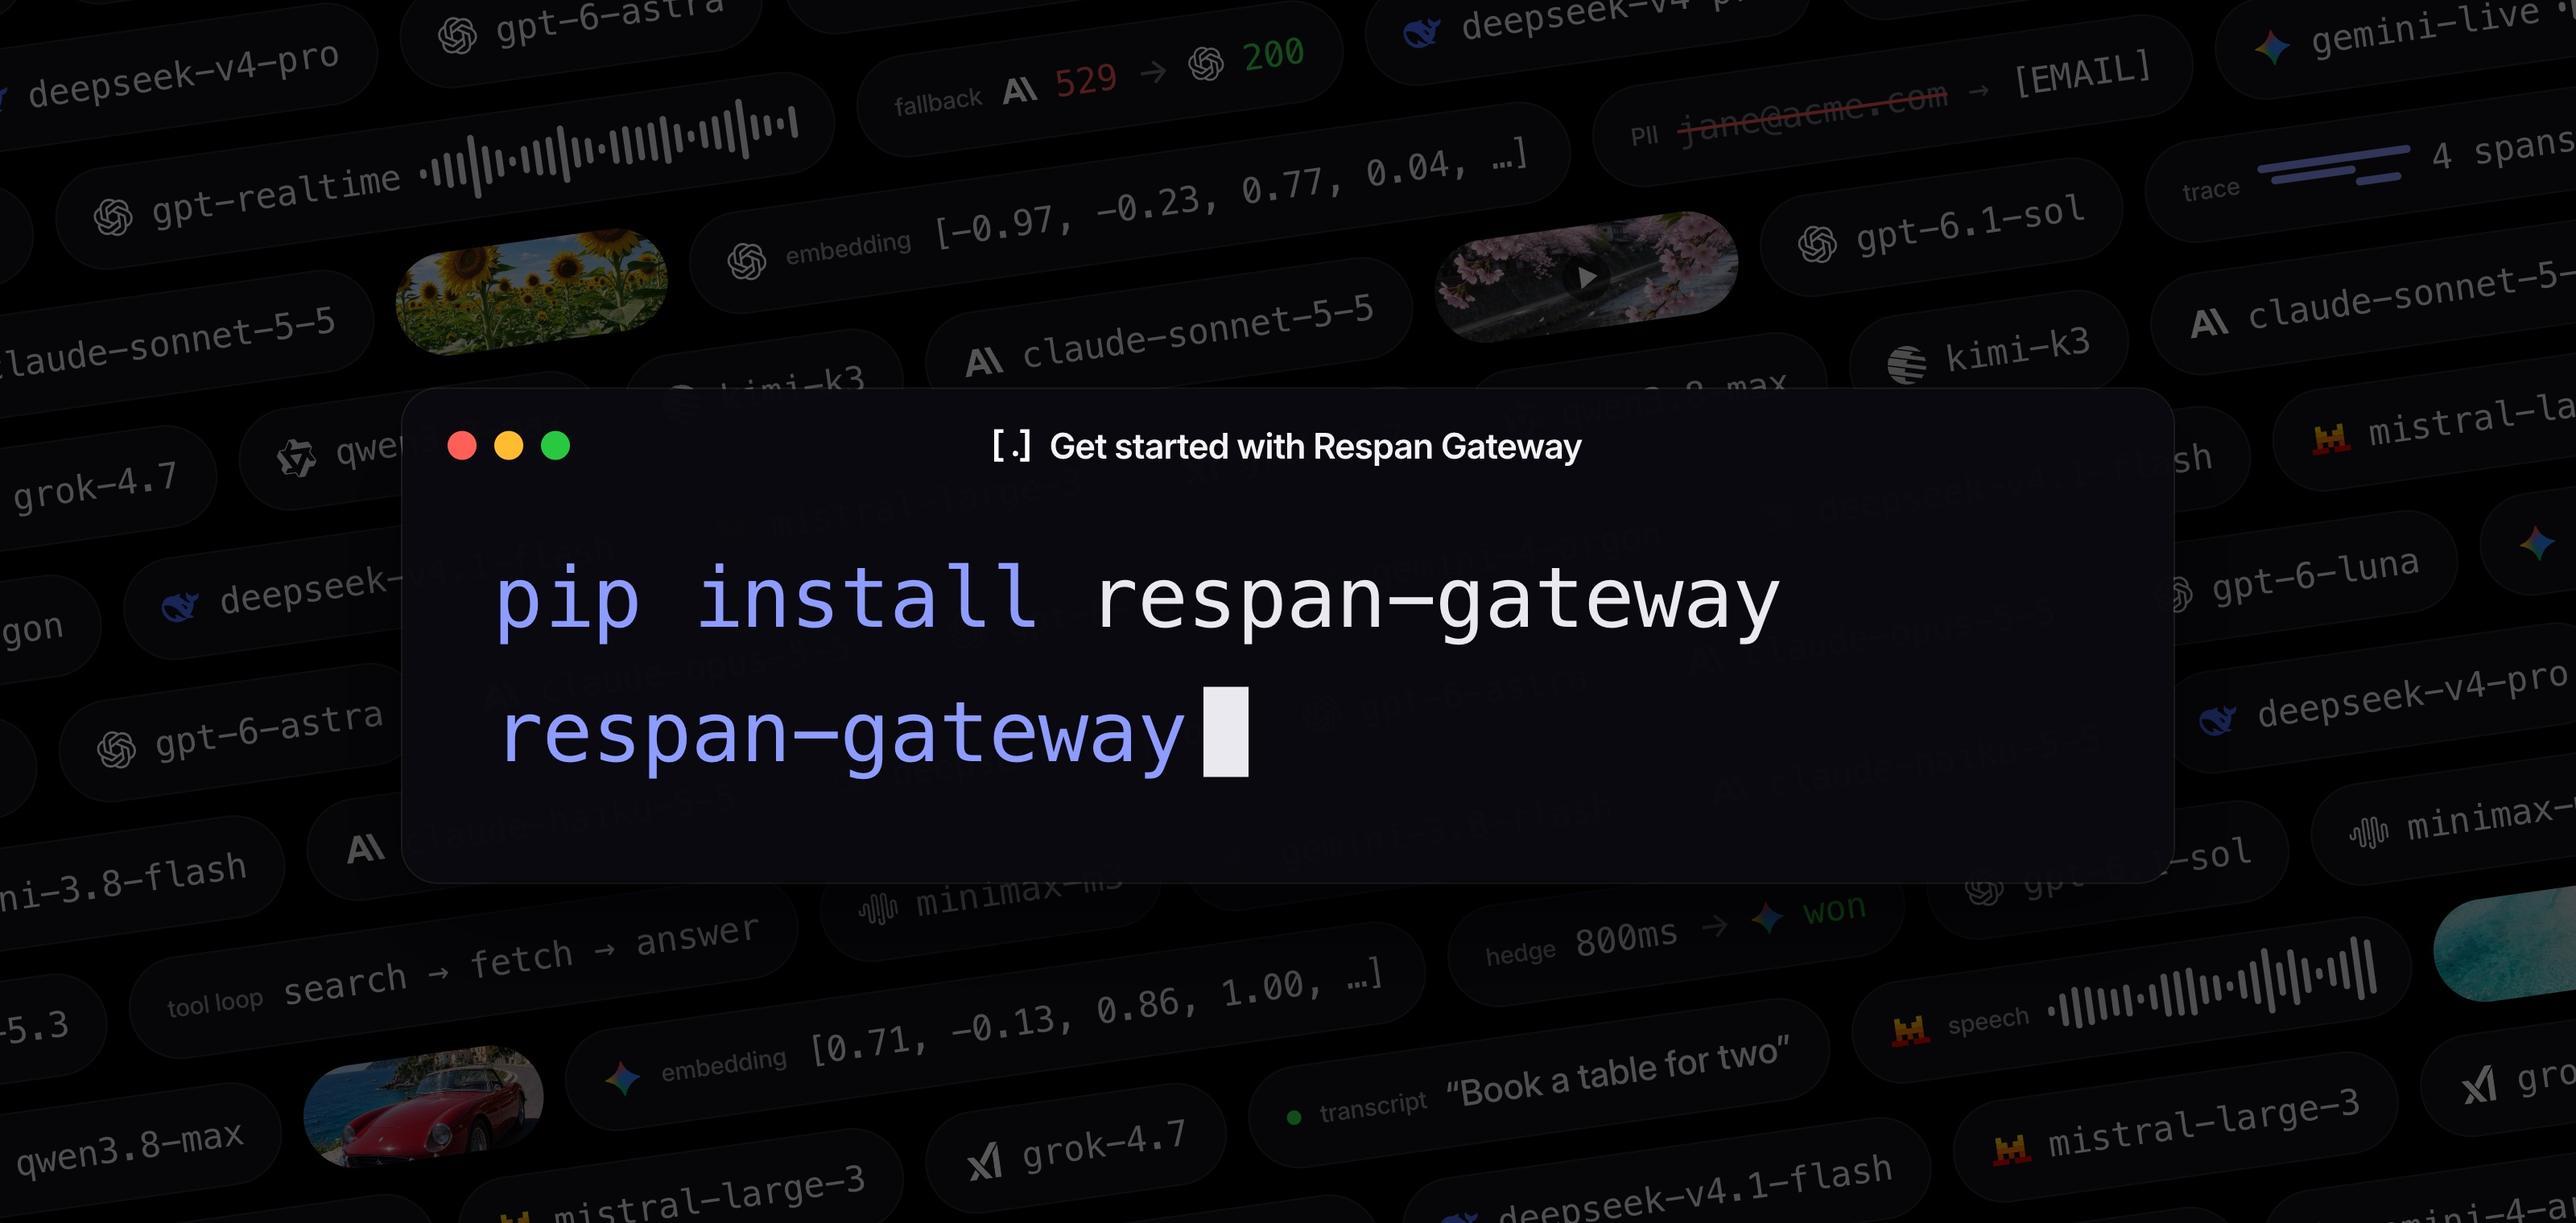
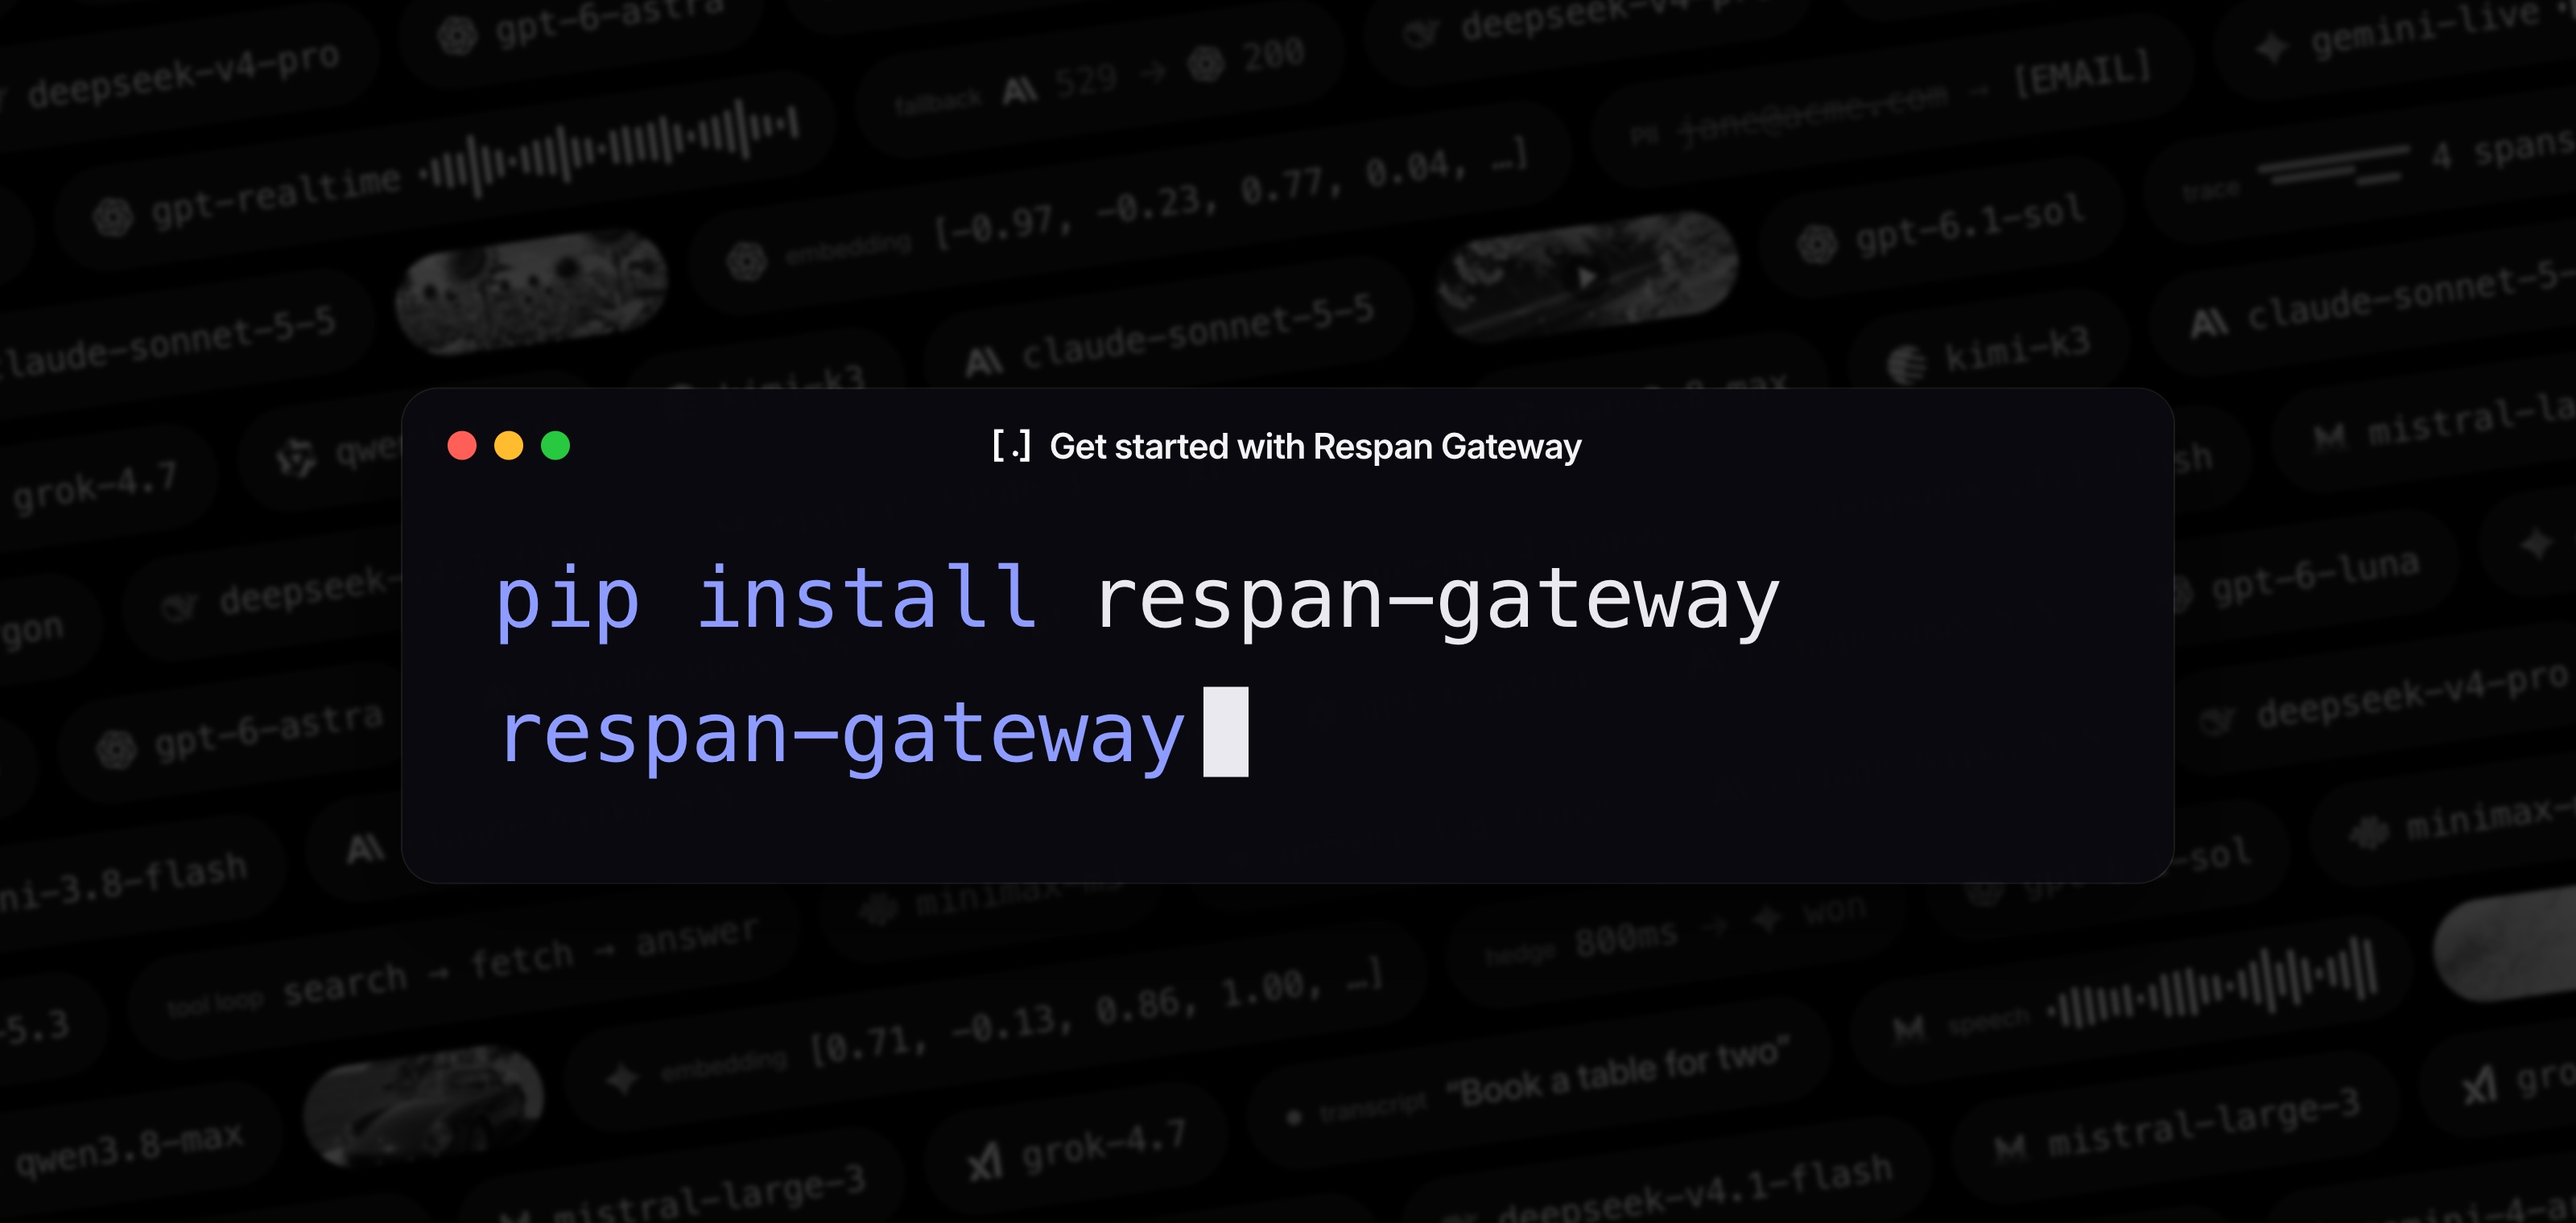
README hero: monochrome, slightly blurred and darker backdrop (draft)

diff --git a/docs/assets/hero-src/hero.html b/docs/assets/hero-src/hero.html
@@ -18,7 +18,7 @@
   .card pre .p { color: #8f9cff; }
   .cur { display: inline-block; width: 28px; height: 56px; background: #e9e9ee; vertical-align: -10px; margin-left: 10px; }
 
-  .rows { position: absolute; inset: -160px -200px; transform: rotate(-8deg); display: flex; flex-direction: column; gap: 18px; }
+  .rows { position: absolute; inset: -160px -200px; transform: rotate(-8deg); filter: grayscale(1) blur(1.6px); display: flex; flex-direction: column; gap: 18px; }
   .row { display: flex; gap: 14px; white-space: nowrap; }
   .pill { display: flex; align-items: center; gap: 12px; height: 64px; padding: 0 24px; border-radius: 999px; background: #131317;
     box-shadow: inset 0 0 0 1px #26262c; font-size: 22px; font-weight: 500; letter-spacing: -.01em; color: #e6e7ec; flex: none; }
@@ -35,7 +35,7 @@
   .pill .ok { color: #31de4b; } .pill .bad { color: #f55656; } .pill .ar { color: #6b6d76; }
   .pill .spans { display: flex; flex-direction: column; gap: 3px; width: 96px; }
   .pill .spans i { display: block; height: 5px; border-radius: 3px; background: #8f9cff; }
-  .shade { position: absolute; inset: 0; z-index: 2; background: rgba(0,0,0,.66); }
+  .shade { position: absolute; inset: 0; z-index: 2; background: rgba(0,0,0,.74); }
 
 </style></head><body>
 <div class="rows" id="rows"></div><div class="shade"></div>

diff --git a/docs/assets/hero-src/styles/b-ticker.html b/docs/assets/hero-src/styles/b-ticker.html
@@ -18,7 +18,7 @@
   .card pre .p { color: #8f9cff; }
   .cur { display: inline-block; width: 28px; height: 56px; background: #e9e9ee; vertical-align: -10px; margin-left: 10px; }
 
-  .rows { position: absolute; inset: -160px -200px; transform: rotate(-8deg); display: flex; flex-direction: column; gap: 18px; }
+  .rows { position: absolute; inset: -160px -200px; transform: rotate(-8deg); filter: grayscale(1) blur(1.6px); display: flex; flex-direction: column; gap: 18px; }
   .row { display: flex; gap: 14px; white-space: nowrap; }
   .pill { display: flex; align-items: center; gap: 12px; height: 64px; padding: 0 24px; border-radius: 999px; background: #131317;
     box-shadow: inset 0 0 0 1px #26262c; font-size: 22px; font-weight: 500; letter-spacing: -.01em; color: #e6e7ec; flex: none; }
@@ -35,7 +35,7 @@
   .pill .ok { color: #31de4b; } .pill .bad { color: #f55656; } .pill .ar { color: #6b6d76; }
   .pill .spans { display: flex; flex-direction: column; gap: 3px; width: 96px; }
   .pill .spans i { display: block; height: 5px; border-radius: 3px; background: #8f9cff; }
-  .shade { position: absolute; inset: 0; z-index: 2; background: rgba(0,0,0,.66); }
+  .shade { position: absolute; inset: 0; z-index: 2; background: rgba(0,0,0,.74); }
 
 </style></head><body>
 <div class="rows" id="rows"></div><div class="shade"></div>
